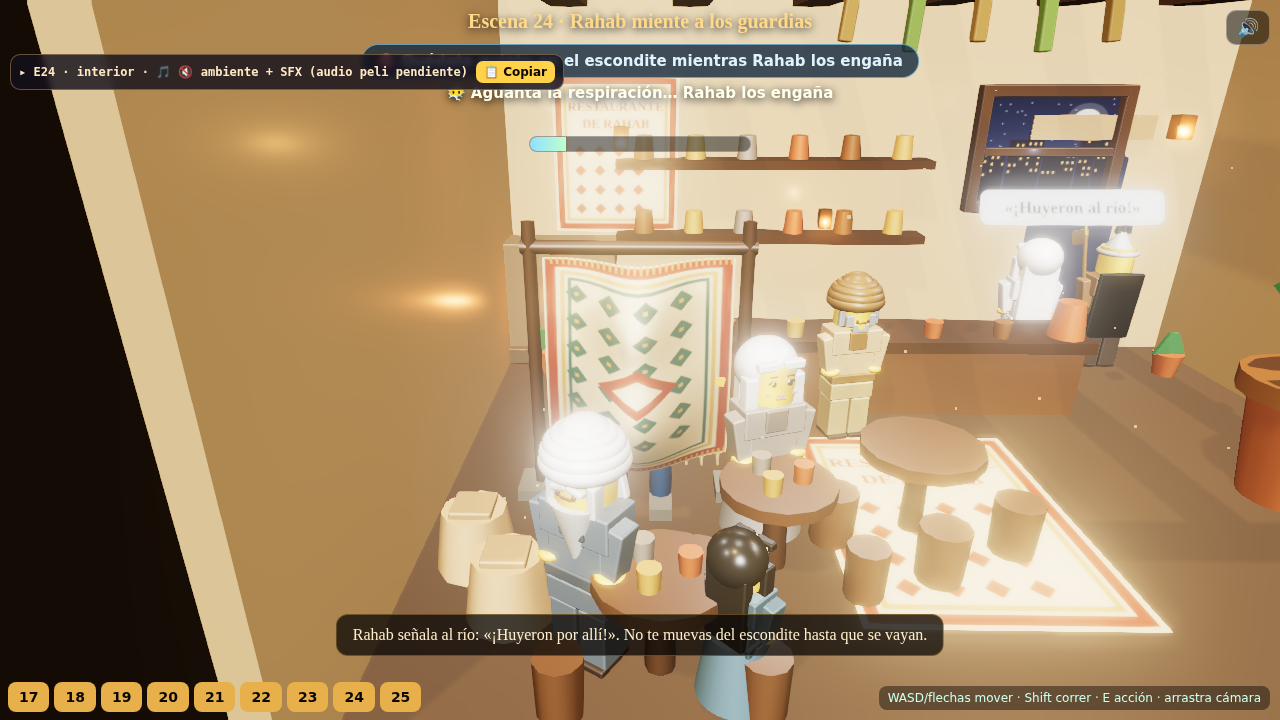
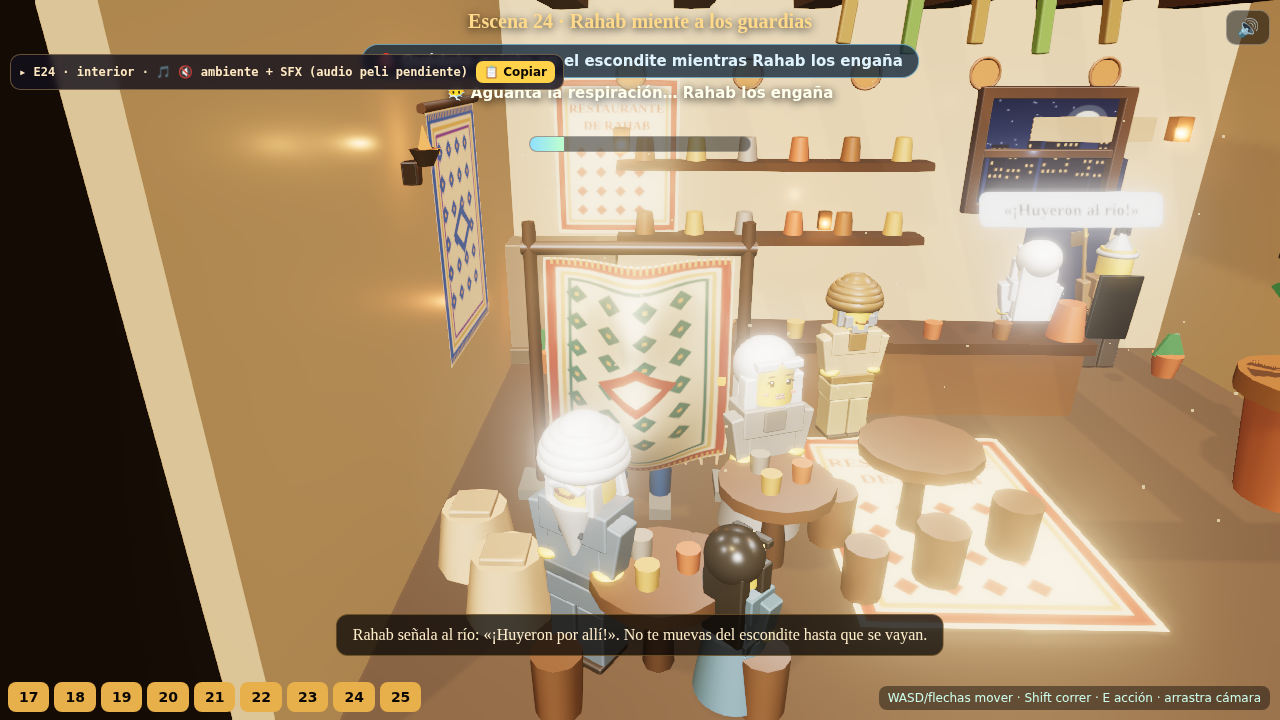
Vestir las paredes del interior de la posada (feedback: "las paredes están vacías")
En buildTavernStage (aplica a escenas 19-25):
- Tapices de kilim colgados en las dos paredes laterales (matan el vacío de los
  lados).
- Apliques con antorcha en las esquinas altas (llama animada; brillan con el
  "precioso"/bloom) + luz cálida.
- Hilera de platos de cobre con reborde en la pared trasera alta (la zona más a
  la vista de la cámara).
Todo decorativo, sin colisión. Verificado: compila 0 err, 0 errores de consola
(9 escenas headless). Capturas tracked regeneradas.

Claude-Session: https://claude.ai/code/session_015WLDEivXXZbK5n9bBPcdg3

diff --git a/mundo-ladrillos/src/scenes/min10/props/stage.ts b/mundo-ladrillos/src/scenes/min10/props/stage.ts
@@ -8,6 +8,7 @@ import { studdedPlate, buildHouse, buildBarrel, brickBox } from '../../min05/pro
 import { buildLantern, buildBrazier } from '../../min05/props/NightAmbience';
 import { BrickPalette } from '../../../materials/BrickPalette';
 import { RugHide, PotHide } from './RugHide';
+import { kilimTexture, KILIM_PALS } from '../../min00/textiles';
 
 /**
  * MONTADORES DE ESCENARIO compartidos por las escenas 17–25, al LISTÓN del tramo
@@ -107,6 +108,43 @@ export function buildTavernStage(ctx: SceneContext, opts: { rahabAt?: [number, n
   group.add(brickBox(P, 4.6, 0.3, 0.5, 0x4e341f, 6.5, 7.4, -10.35));   // parteluz
   const moonGlow = new THREE.PointLight(0x9fb6e8, 1.2, 16, 2); moonGlow.position.set(6.5, 7.4, -9); group.add(moonGlow);
 
+  // ---- PAREDES VESTIDAS (feedback del niño: "las paredes están vacías") ----
+  // Apliques con antorcha (brillan con el "precioso"), tapices de kilim en los
+  // laterales y platos de cobre en el fondo alto. Todo DECORATIVO (sin colisión).
+  const wallFlames: THREE.Mesh[] = [];
+  const sconce = (x: number, y: number, z: number, dirX: number, dirZ: number): void => {
+    group.add(brickBox(P, 0.35, 0.5, 0.35, 0x2a1c10, x, y, z));                 // soporte
+    const bx = x + dirX * 0.32, bz = z + dirZ * 0.32;
+    const bowl = new THREE.Mesh(new THREE.CylinderGeometry(0.32, 0.16, 0.34, 10), P.get(0x3a2a18));
+    bowl.position.set(bx, y + 0.32, bz); group.add(bowl);
+    for (let i = 0; i < 3; i++) {
+      const fl = new THREE.Mesh(new THREE.ConeGeometry(0.2 - i * 0.05, 0.8 - i * 0.16, 7), fireMat);
+      fl.position.set(bx, y + 0.62 + i * 0.07, bz); group.add(fl); wallFlames.push(fl);
+    }
+    const gl = new THREE.PointLight(0xffa64d, 2.0, 11, 2); gl.position.set(bx + dirX * 0.3, y + 0.6, bz + dirZ * 0.3); group.add(gl);
+  };
+  sconce(-12.2, 8.2, 1, 1, 0); sconce(12.2, 8.2, 1, -1, 0);                     // paredes laterales
+
+  const sideKilim = (x: number, z: number, faceX: number, pal: number): void => {
+    const bar = new THREE.Mesh(new THREE.CylinderGeometry(0.12, 0.12, 5.2, 8), P.get(BrickPalette.DARK_BROWN));
+    bar.position.set(x, 9.4, z); bar.rotation.x = Math.PI / 2; group.add(bar);
+    const cloth = new THREE.Mesh(
+      new THREE.PlaneGeometry(4.6, 6.2),
+      new THREE.MeshStandardMaterial({ map: kilimTexture(KILIM_PALS[pal % KILIM_PALS.length]), roughness: 0.96, side: THREE.DoubleSide })
+    );
+    cloth.position.set(x, 6.2, z); cloth.rotation.y = faceX > 0 ? Math.PI / 2 : -Math.PI / 2; cloth.receiveShadow = true; group.add(cloth);
+  };
+  sideKilim(-12.3, -3, 1, 1); sideKilim(12.3, -3, -1, 2);                       // tapices laterales
+
+  // platos de cobre en la pared trasera alta (la zona más a la vista de la cámara)
+  const plateMat = new THREE.MeshStandardMaterial({ color: 0xc9873f, metalness: 0.25, roughness: 0.45, emissive: 0x3a1e08, emissiveIntensity: 0.4 });
+  for (let i = 0; i < 5; i++) {
+    const plate = new THREE.Mesh(new THREE.CylinderGeometry(0.5, 0.5, 0.08, 18), plateMat);
+    plate.position.set(-8 + i * 4, 10, -10.45); plate.rotation.x = Math.PI / 2; group.add(plate);
+    const rim = new THREE.Mesh(new THREE.TorusGeometry(0.5, 0.06, 8, 20), P.get(0x8a5a2c));
+    rim.position.set(-8 + i * 4, 10, -10.4); group.add(rim);
+  }
+
   // ---- ATTREZZO: sacos, barriles, ristra de ajos/hierbas colgando de la viga ----
   const sack = (x: number, z: number): void => {
     const s = new THREE.Mesh(new THREE.CylinderGeometry(0.7, 0.9, 1.4, 10), P.get(0xcaa87a));
@@ -178,6 +216,7 @@ export function buildTavernStage(ctx: SceneContext, opts: { rahabAt?: [number, n
       const f = 0.85 + Math.sin(t * 11) * 0.1 + Math.sin(t * 23) * 0.05;
       fireLight.intensity = 5.5 * f;
       flames.forEach((fl, i) => fl.scale.set(0.9 + f * 0.2, f * (1 + i * 0.12), 0.9 + f * 0.2));
+      wallFlames.forEach((fl, i) => { const g = 0.82 + Math.sin(t * 13 + i * 1.7) * 0.14; fl.scale.set(0.9 + g * 0.15, g, 0.9 + g * 0.15); });
       diners.update(_dt);
       // motas: suben lento y reaparecen
       const mp = motes.geometry.attributes.position as THREE.BufferAttribute;
